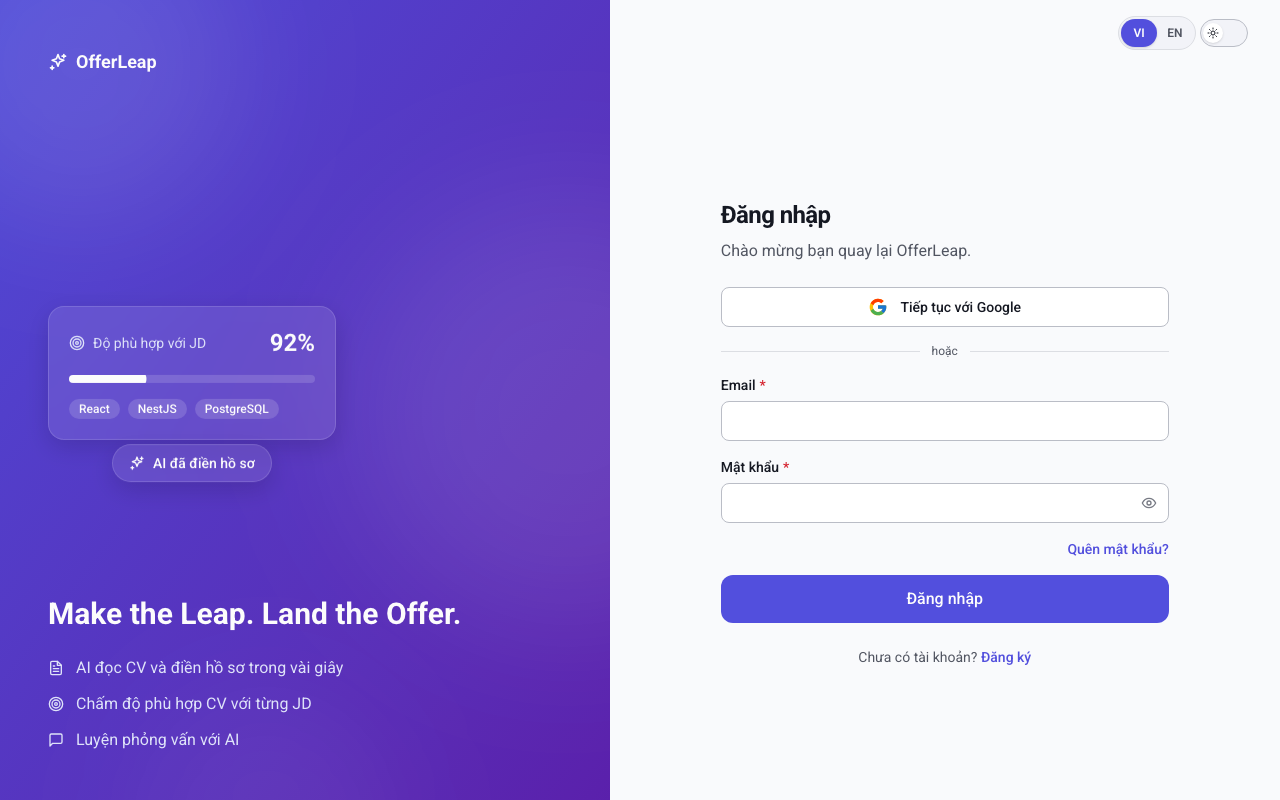
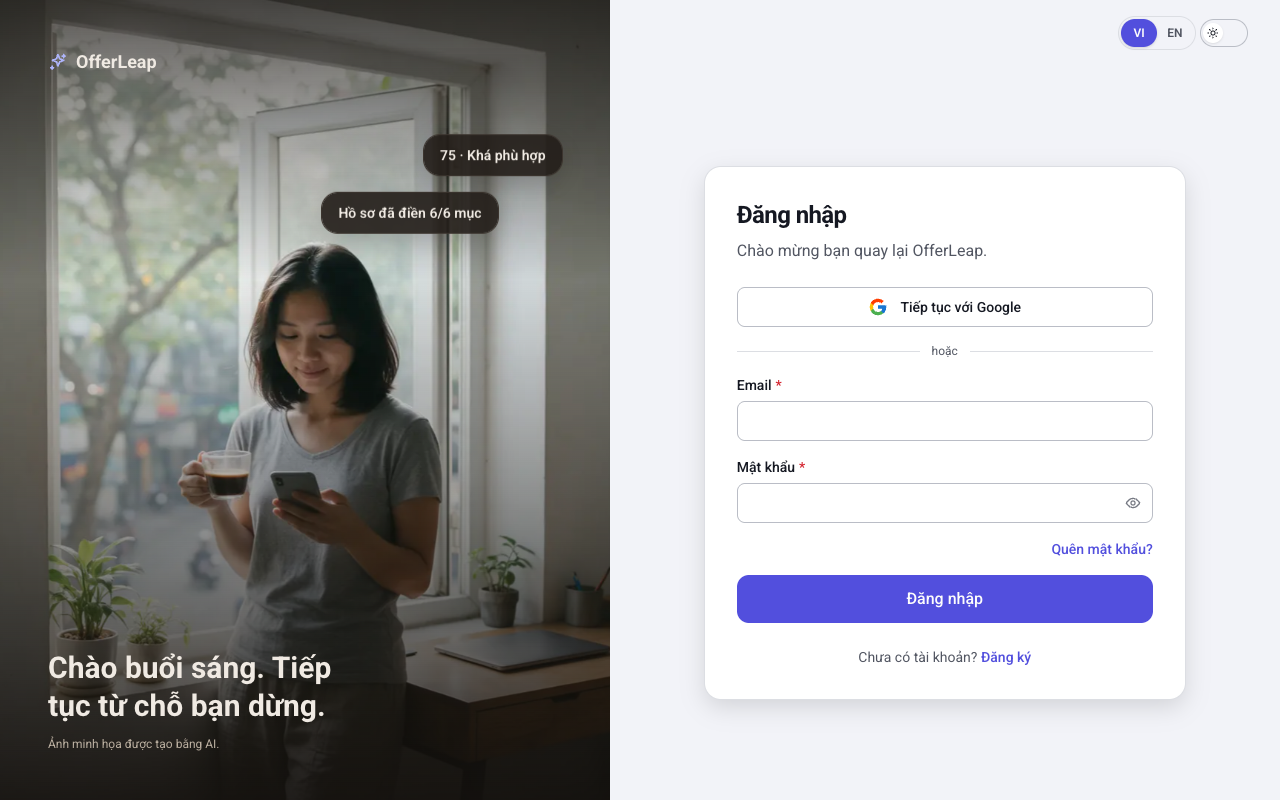
docs: update the README and screenshots for the new landing page, auth pages and CV limits

diff --git a/README.md b/README.md
@@ -4,26 +4,31 @@
 
 OfferLeap is an AI job-application assistant. Upload your CV (PDF, DOCX or a photo) and the AI fills in your profile,
 scores your CV against any job description, writes cover letters live, and runs mock interviews with feedback on
-every answer — in Vietnamese or English, light or dark.
+every answer — in Vietnamese or English, light or dark, on a desktop or a phone.
 
 ![Landing page](docs/screenshots/01-landing.png)
 
+The landing page is a scroll story told side by side: the same job seeker on her own at midnight and with OfferLeap
+the next morning. Drag the divider (or use the arrow keys) to compare; scrolling plays each step of the product on
+both sides until the morning takes the whole frame.
+
 ## Features
 
-|                                                                                                                                                                                                                                                                                    |                                                                        |
-| ---------------------------------------------------------------------------------------------------------------------------------------------------------------------------------------------------------------------------------------------------------------------------------- | ---------------------------------------------------------------------- |
-| **CV → profile in seconds.** Onboarding starts with an optional CV upload; Gemini reads PDFs and images natively (no OCR service), DOCX is parsed locally. Every field it fills is marked _AI suggested_, and guesses ask you to double-check.                                     | ![Pre-filled onboarding](docs/screenshots/02-onboarding-prefilled.png) |
-| **CV ↔ job analysis.** A 0–100 match score, skills you have and the ones missing (required vs nice-to-have), strengths, gaps and concrete CV edits.                                                                                                                                | ![Analysis result](docs/screenshots/03-analysis.png)                   |
-| **Application board.** A kanban with drag and drop for mouse and touch — built without a library, the whole card follows the pointer — plus a keyboard alternative, optimistic updates, notes and links to the analysis.                                                           | ![Kanban board](docs/screenshots/04-board.png)                         |
-| **Cover letters, streamed.** The letter appears word by word as the model writes it; edit, copy and save.                                                                                                                                                                          | ![Cover letter](docs/screenshots/05-cover-letter.png)                  |
-| **Mock interviews.** Behavioural or technical questions written for the job, a score and a stronger sample answer for each reply, voice input, and a final readiness summary.                                                                                                      | ![Mock interview](docs/screenshots/06-interview.png)                   |
-| **Personal documents (RAG).** Upload project notes or certificates; they are chunked, embedded (Gemini) and stored in pgvector. Analyses and cover letters retrieve the most relevant passages and cite them as sources; a search box shows exactly what the AI would get.         | ![Documents](docs/screenshots/09-documents.png)                        |
-| **Sign in with Google.** One click to sign up or sign in (OpenID Connect with PKCE). An account with the same verified email is linked and its owner notified; admins keep to passwords. New accounts get a welcome email.                                                         | ![Sign in with Google](docs/screenshots/10-sign-in-google.png)         |
-| **Profile and CVs.** Edit each part of the profile with the same forms as onboarding, upload new CVs and delete old ones (with the analyses made from them).                                                                                                                       | ![Profile page](docs/screenshots/11-profile.png)                       |
-| **Your account, your data.** Link or unlink Google, set or change a password, download everything as JSON, or delete the account (confirmed by password or a fresh Google sign-in).                                                                                                | ![Account settings](docs/screenshots/12-settings.png)                  |
-| **Admin console.** Root invites general admins by email; admins manage users (searchable, 10/50/100 per page, sign-in method shown — [screenshot](docs/screenshots/13-admin-users.png)), industries and per-user AI quotas, and watch AI usage (calls, failures, tokens, latency). | ![AI usage dashboard](docs/screenshots/07-admin-usage.png)             |
+|                                                                                                                                                                                                                                                                                                               |                                                                        |
+| ------------------------------------------------------------------------------------------------------------------------------------------------------------------------------------------------------------------------------------------------------------------------------------------------------------- | ---------------------------------------------------------------------- |
+| **CV → profile in seconds.** Onboarding starts with an optional CV upload; Gemini reads PDFs and images natively (no OCR service), DOCX is parsed locally. Photos are shrunk in a Web Worker before upload. Every field it fills is marked _AI suggested_ and guesses ask you to double-check.                | ![Pre-filled onboarding](docs/screenshots/02-onboarding-prefilled.png) |
+| **CV ↔ job analysis.** A 0–100 match score, skills you have and the ones missing (required vs nice-to-have), strengths, gaps and concrete CV edits.                                                                                                                                                           | ![Analysis result](docs/screenshots/03-analysis.png)                   |
+| **Application board.** A kanban with drag and drop for mouse and touch — built without a library, the whole card follows the pointer — plus a keyboard alternative, optimistic updates, notes and links to the analysis.                                                                                      | ![Kanban board](docs/screenshots/04-board.png)                         |
+| **Cover letters, streamed.** The letter appears word by word as the model writes it; edit, copy and save.                                                                                                                                                                                                     | ![Cover letter](docs/screenshots/05-cover-letter.png)                  |
+| **Mock interviews.** Behavioural or technical questions written for the job, a score and a stronger sample answer for each reply, voice input, and a final readiness summary.                                                                                                                                 | ![Mock interview](docs/screenshots/06-interview.png)                   |
+| **Personal documents (RAG).** Upload project notes or certificates; they are chunked, embedded (Gemini) and stored in pgvector. Analyses and cover letters retrieve the most relevant passages and cite them as sources; a search box shows exactly what the AI would get.                                    | ![Documents](docs/screenshots/09-documents.png)                        |
+| **Sign in with Google.** One click to sign up or sign in (OpenID Connect with PKCE). An account with the same verified email is linked and its owner notified; admins keep to passwords. New accounts get a welcome email.                                                                                    | ![Sign in with Google](docs/screenshots/10-sign-in-google.png)         |
+| **Profile and CVs.** Edit each part of the profile with the same forms as onboarding. Keep up to 5 CVs: view them in the app (PDF, image or DOCX), upload the same file twice and it is stored once, and at the limit choose to replace the oldest. CVs added after onboarding are stored without an AI call. | ![Profile page](docs/screenshots/11-profile.png)                       |
+| **Your account, your data.** Link or unlink Google, set or change a password, download everything as JSON, or delete the account (confirmed by password or a fresh Google sign-in).                                                                                                                           | ![Account settings](docs/screenshots/12-settings.png)                  |
+| **Admin console.** Root invites general admins by email; admins manage users (searchable, 10/50/100 per page, sign-in method shown — [screenshot](docs/screenshots/13-admin-users.png)), industries and per-user AI quotas, and watch AI usage (calls, failures, tokens, latency).                            | ![AI usage dashboard](docs/screenshots/07-admin-usage.png)             |
 
-Dark mode, Vietnamese (default) and English everywhere:
+Dark mode, Vietnamese (default) and English everywhere. Every page also works on phones, with a menu drawer and no
+layout shift on load:
 
 ![Dark mode](docs/screenshots/08-dark-mode.png)
 
@@ -36,7 +41,7 @@ flowchart LR
     RQ[React Query]
   end
   subgraph API["apps/api · NestJS 12"]
-    Guards[Guards: throttle → JWT → roles → profile complete]
+    Guards[Guards: throttle per user → JWT → roles → profile complete]
     Features[Resumes · Analyses · Applications · Interviews · Admin]
     Tracked[TrackedAiProvider<br/>quota + usage log]
     Vendor[GeminiProvider · MockAiProvider]
@@ -61,8 +66,9 @@ flowchart LR
   error codes. The API never sends user-facing text.
 - **AI behind an interface.** Features call an `AiProvider` (Strategy); a decorator adds per-user quotas and a usage
   log; the vendor (Gemini, or a mock for tests) is one class. Model fallback handles 429/503/timeouts.
-- **Slow work in the background, fast work in the request.** CV parsing and analyses run in BullMQ jobs with retry
-  and backoff (the UI polls); interview steps call the AI inside the request; cover letters stream over HTTP.
+- **Slow work in the background, fast work in the request.** CV parsing (onboarding only) and analyses run in BullMQ
+  jobs with retry and backoff (the UI polls); interview steps call the AI inside the request; cover letters stream
+  over HTTP. Sweepers on a timer fail jobs that got stuck and delete stored files that no CV or document points at.
 
 More: [architecture](docs/ai/architecture.md) · [decisions (ADRs)](docs/adr) · [AI prompts, evals and cost](docs/ai/ai-prompts.md)
 
@@ -70,16 +76,20 @@ More: [architecture](docs/ai/architecture.md) · [decisions (ADRs)](docs/adr) ·
 
 - **Security** — sign in with Google (OpenID Connect + PKCE, accounts matched by Google id, admins excluded),
   argon2id passwords, short-lived JWT access cookie + rotating opaque refresh tokens with reuse
-  detection, rate limits, magic-byte file checks, owner-scoped queries (404 for other users' data), prompts that
+  detection, rate limits per signed-in user (per IP otherwise), magic-byte file checks, a zip-bomb check before any
+  DOCX is unpacked, owner-scoped queries (404 for other users' data), prompts that
   treat CVs and job descriptions as untrusted data, hashed single-use admin invitation tokens, a JSON
   export of your data and password-confirmed account deletion.
 - **Accessibility** — native elements first (`<dialog>`, `<select>`, file input in a label), WAI-ARIA combobox,
-  focus management between steps, live regions for async results, keyboard alternative to drag and drop; every page is scanned with axe (WCAG 2.2 AA) in light and dark mode, in CI.
+  focus management between steps, live regions for async results, keyboard alternative to drag and drop, a
+  keyboard-operable slider for the landing page divider, motion only when `prefers-reduced-motion` allows it; every
+  page is scanned with axe (WCAG 2.2 AA) in light and dark mode, in CI.
 - **AI quality is measured** — `pnpm --filter @offerleap/api eval <task>` runs a dataset of hard cases (abbreviations,
   overlapping jobs, missing data, prompt injection) against the real model and reports field accuracy and p95
   latency. Baseline: 100% field accuracy, p95 2.8 s for CV extraction. The eval found two real bugs.
 - **No UI library** — every component (atoms → templates) is built with Tailwind and design tokens, documented in
-  Storybook with light/dark and language toolbars.
+  Storybook with light/dark and language toolbars. The kanban drag and drop is built on Pointer Events; the landing
+  page's scroll effects use a small vendored engine (`public/vendor/scrollcraft`), not an npm dependency.
 
 ## Tech stack
 
